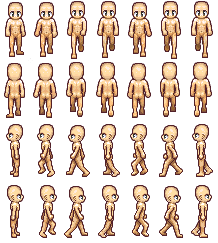
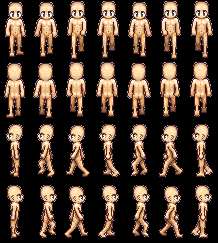
kochanek animacja

diff --git a/code/player.py b/code/player.py
@@ -18,10 +18,16 @@ class Player(pygame.sprite.Sprite):
     change_x = 0
     change_y = 0
 
+    PL_WIDTH = 31
+    PL_HEIGHT = 61
+    PL_MARGIN=8
+
     # This holds all the images for the animated walk left/right
     # of our player
     walking_frames_l = []
     walking_frames_r = []
+    walking_frames_u = []
+    walking_frames_d = []
 
     # What direction is the player facing?
     direction = "R"
@@ -36,46 +42,25 @@ class Player(pygame.sprite.Sprite):
         # Call the parent's constructor
         pygame.sprite.Sprite.__init__(self)
 
-        sprite_sheet = SpriteSheet("p1_walk.png")
+        sprite_sheet = SpriteSheet("player.png")
         # Load all the right facing images into a list
-        image = sprite_sheet.get_image(0, 0, 66, 90)
-        self.walking_frames_r.append(image)
-        image = sprite_sheet.get_image(66, 0, 66, 90)
-        self.walking_frames_r.append(image)
-        image = sprite_sheet.get_image(132, 0, 67, 90)
-        self.walking_frames_r.append(image)
-        image = sprite_sheet.get_image(0, 93, 66, 90)
-        self.walking_frames_r.append(image)
-        image = sprite_sheet.get_image(66, 93, 66, 90)
-        self.walking_frames_r.append(image)
-        image = sprite_sheet.get_image(132, 93, 72, 90)
-        self.walking_frames_r.append(image)
-        image = sprite_sheet.get_image(0, 186, 70, 90)
-        self.walking_frames_r.append(image)
 
-        # Load all the right facing images, then flip them
-        # to face left.
-        image = sprite_sheet.get_image(0, 0, 66, 90)
-        image = pygame.transform.flip(image, True, False)
-        self.walking_frames_l.append(image)
-        image = sprite_sheet.get_image(66, 0, 66, 90)
-        image = pygame.transform.flip(image, True, False)
-        self.walking_frames_l.append(image)
-        image = sprite_sheet.get_image(132, 0, 67, 90)
-        image = pygame.transform.flip(image, True, False)
-        self.walking_frames_l.append(image)
-        image = sprite_sheet.get_image(0, 93, 66, 90)
-        image = pygame.transform.flip(image, True, False)
-        self.walking_frames_l.append(image)
-        image = sprite_sheet.get_image(66, 93, 66, 90)
-        image = pygame.transform.flip(image, True, False)
-        self.walking_frames_l.append(image)
-        image = sprite_sheet.get_image(132, 93, 72, 90)
-        image = pygame.transform.flip(image, True, False)
-        self.walking_frames_l.append(image)
-        image = sprite_sheet.get_image(0, 186, 70, 90)
-        image = pygame.transform.flip(image, True, False)
-        self.walking_frames_l.append(image)
+#         myList=[]
+# for i in range(10):
+#  myList.append(1)
+        ####
+        for i in range(7):
+            image = sprite_sheet.get_image(i * self.PL_WIDTH, 3 * self.PL_HEIGHT, self.PL_WIDTH, self.PL_HEIGHT-self.PL_MARGIN)
+            self.walking_frames_r.append(image)
+        for i in range(7):
+            image = sprite_sheet.get_image(i * self.PL_WIDTH, 2 * self.PL_HEIGHT, self.PL_WIDTH, self.PL_HEIGHT-self.PL_MARGIN)
+            self.walking_frames_l.append(image)
+        for i in range(7):
+            image = sprite_sheet.get_image(i * self.PL_WIDTH, self.PL_HEIGHT, self.PL_WIDTH, self.PL_HEIGHT-self.PL_MARGIN)
+            self.walking_frames_u.append(image)
+        for i in range(7):
+            image = sprite_sheet.get_image(i * self.PL_WIDTH, 0, self.PL_WIDTH, self.PL_HEIGHT-self.PL_MARGIN)
+            self.walking_frames_d.append(image)
 
         # Set the image the player starts with
         self.image = self.walking_frames_r[0]
